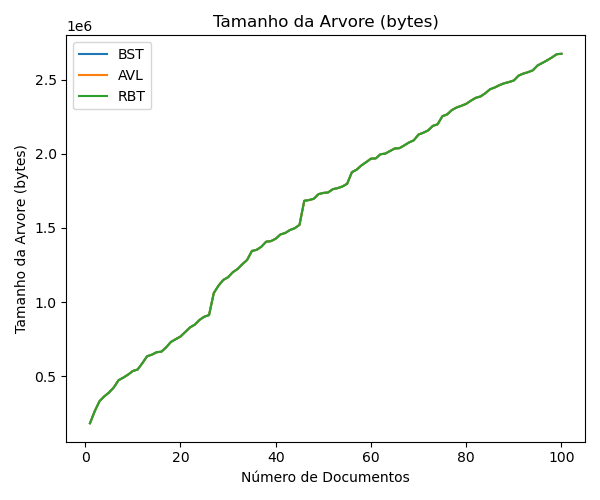
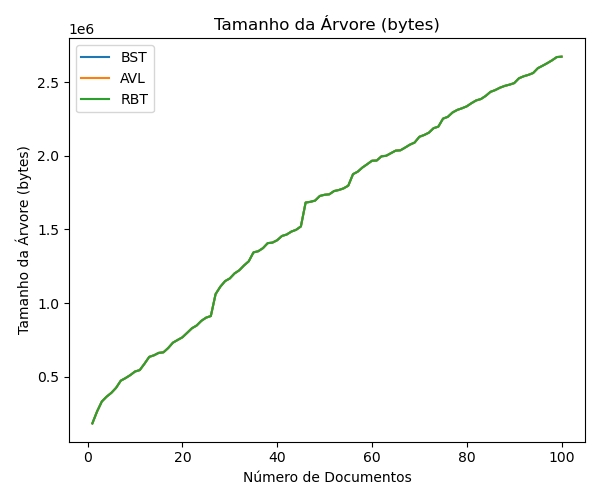
revisao relatorio e minor tweaks

diff --git a/docs/visualizations.py b/docs/visualizations.py
@@ -57,7 +57,7 @@ save_double_graph(col_names[6], col_names[7], pre="Número", mid="Máximo",
 save_simple_graph(col_names[8], title="Altura da Árvore")
 save_branch_graph(col_names[9], col_names[10], "Comparação maior e menor galho")
 save_simple_graph(col_names[11], title="Número de Nós")
-save_simple_graph(col_names[12], title="Tamanho da Arvore (bytes)")
+save_simple_graph(col_names[12], title="Tamanho da Árvore (bytes)")
 
 
 #Tamanho da arvore pelo numero de nós BST

diff --git a/docs/relatorio.md b/docs/relatorio.md
@@ -57,13 +57,26 @@ Implementação da árvores (`bst.cpp`, `avl.cpp`, `rbt.cpp`): Para a implementa
 
 Implementação dos testes (`test_bst.cpp`, `test_avl.cpp`, `test_rbt.cpp`): Para implementação dos testes, foram verificadas a consistência das regras de cada árvore, as funções de inserção e de busca.
 
-Geração e coleta de estatísticas (`tree_utils.cpp`, `tree_stats.cpp`, `export_stats.cpp`): Para coleta das métricas, no arquivo `tree_utils.cpp`, foram implementadas funções que geram as estatísticas referentes às árvores. Estas métricas são utilizadas no CLI de estatísticas e na criação de um arquivo CSV com os dados obtidos.
+Geração e coleta de estatísticas (`tree_utils.cpp`, `tree_stats.cpp`, `export_stats.cpp`): Para coleta das métricas, no arquivo `tree_utils.cpp`, foram implementadas funções que geram as estatísticas referentes às árvores. Estas métricas são utilizadas no CLI de estatísticas e na criação de um arquivo CSV com os dados obtidos. É Importante destacar que o arquivo CSV é somente gerado pelo `tree_stats.cpp`, enquanto a CLI de estatísticas gera apenas um overview simplificado.  
 
-Arquivos principais (`main_bst.cpp`, `main_avl.cpp`, `main_rbt.cpp`): Para utilização do código por outros usuários, no arquivo main de cada árvore, foram desenvolvidos comandos CLI para busca de uma determinada palavra, geração de estatísticas e visualização da árvore.
+Arquivos principais (`main_bst.cpp`, `main_avl.cpp`, `main_rbt.cpp`): Para utilização do código por outros usuários, no arquivo main de cada árvore, foram desenvolvidos comandos CLI para busca de uma determinada palavra, geração de estatísticas e visualização da árvore. Como mencionado no parágrafo anterior, as estatísticas geradas por esses arquivos são mais apenas impressas no terminal, para gerar o arquivo CSV, usamos `tree_stats.cpp`, que será melhor explicado no próximo tópico.
 
 ### 2.3 Estatísticas
 
-Assim como supracitado, o documento `tree_utils.cpp` contém funções que coletam as estatísticas com base em parâmetros, como o tipo da árvore e a quantidade de documentos que serão inseridos. A partir dessas funções, são coletadas estatísticas como: o número total de documentos inseridos na estrutura (`n_docs`); o número médio (`numComparisonsInsertionMean`) e total (`numComparisonsInsertion`) de comparações realizadas durante as operações de inserção; o tempo médio (`executionTimeInsertionMean`) e total (`executionTimeInsertion`) de execução das inserções, medidos em milissegundos; o número médio (`numComparisonsSearchMean`) e o máximo (`numComparisonsSearchMax`) de comparações realizadas durante as buscas; o tempo máximo (`executionTimeSearchMax`) e médio (`executionTimeSearchMean`) de execução das buscas; a altura final da árvore (`treeHeight`) após todas as inserções; o comprimento do menor galho (`minBranch`); o número total de nós existentes na árvore (`numNodes`); além do tamanho total ocupado pela árvore em memória, representado em bytes (`size`).
+Assim como supracitado, o documento `tree_utils.cpp` contém funções que coletam as estatísticas com base em parâmetros, como o tipo da árvore e a quantidade de documentos que serão inseridos. A partir dessas funções, são coletadas estatísticas como:
+- **Número total de documentos inseridos** (`n_docs`)
+- **Número médio de comparações na inserção** (`numComparisonsInsertionMean`)
+- **Número total de comparações na inserção** (`numComparisonsInsertion`)
+- **Tempo médio de execução das inserções (ms)** (`executionTimeInsertionMean`)
+- **Tempo total de execução das inserções (ms)** (`executionTimeInsertion`)
+- **Número médio de comparações na busca** (`numComparisonsSearchMean`)
+- **Número máximo de comparações na busca** (`numComparisonsSearchMax`)
+- **Tempo máximo de execução das buscas (ms)** (`executionTimeSearchMax`)
+- **Tempo médio de execução das buscas (ms)** (`executionTimeSearchMean`)
+- **Altura final da árvore após as inserções** (`treeHeight`)
+- **Comprimento do menor galho** (`minBranch`)
+- **Número total de nós na árvore** (`numNodes`)
+- **Tamanho total ocupado pela árvore em memória (bytes)** (`size`)
 
 Vale ressaltar que, neste contexto, são considerados como número de comparações a quantidade de nós que foram percorridos durante a operação, ou seja, é contabilizado cada comparação com um nó durante a inserção ou busca. Além disso, a fim de reduzir erros de medições de tempo nas estáticas de tempo de busca, para as árvores que tem 800 documentos ou menos, a busca por cada palavra é realizada 50 vezes, e então é calculado a médias desses resultados, mitigando assim, as oscilações causas pelo computador nos tempos calculados.
 
@@ -90,8 +103,8 @@ No documento `tree_stats.cpp`, utilizando as funções responsáveis pela coleta
 
 #### 2.4.3. Entrega 3
 
-* **Bruno Ferreira Salvi:** Elaboração e revisão do relatório final, formulação das estatísticas extras e revisão geral do código e documentação;
-* **Henrique Coelho Beltrão:**  Elaboração e revisão do relatório final, revisão geral do código, documentação, instruções de execução com novos dados e ajustes no Makefile;
+* **Bruno Ferreira Salvi:** Revisão do relatório final, formulação das estatísticas extras e revisão geral do código e documentação;
+* **Henrique Coelho Beltrão:** Revisão do relatório final, verificações e visualização de progresso das etapas, ajustes no Makefile para descompactar dados e reformatação do código;
 * **Henrique Gabriel Gasparelo:** Implementação dos testes unitários da RBT e redação do relatório;
 * **José Thevez Gomes Guedes:** Implementação das funções da RBT e redação do relatório;
 * **Luiz Eduardo Bravin:** Implementação da CLI para RBT, atualização das funções úteis para comportar NIL e redação do relatório.
@@ -117,52 +130,56 @@ A seguir, serão analisados graficamente os resultados obtidos, comparando o des
 #### 3.2.1. Tempo de Inserção
 ##### **Figura 1: Tempo de Inserção de Palavra**
 ![Figura 1](graphs/grafico_ExecutionTimeInsertion.png)
-##### **Discussão:** Analisando o tempo total de inserção, nota-se que a RBT apresentou o melhor desempenho, sendo consistentemente mais rápida que as outras duas. A árvore AVL, embora mantenha um tempo de inserção estável, foi ligeiramente mais lenta que a RBT, provavelmente devido ao maior número de rotações necessárias para manter seu balanceamento estrito. A BST, por sua vez, apresentou tempos médios voláteis e um tempo total que, embora próximo ao da AVL, reflete sua ineficiência estrutural.
+##### **Discussão:** A análise do tempo total de inserção revela que a RBT apresentou o melhor desempenho, sendo consistentemente mais rápida que as outras duas estruturas. Esse resultado pode ser atribuído ao menor número de rotações necessárias para manter o balanceamento, em comparação à AVL. Apesar disso, a AVL manteve um tempo de inserção estável, embora ligeiramente mais lento, devido ao rigor de suas regras de balanceamento. Por outro lado, a BST apresentou tempos médios voláteis e um tempo total próximo ao da AVL, mas sua falta de balanceamento estrutural resultou em maior variabilidade e ineficiência.
+
 
 #### 3.2.2. Tempo de Busca
 ##### **Figura 2: Tempo de Busca de Palavra**
 ![Figura 2](graphs/grafico_ExecutionTimeSearch.png)
-##### **Discussão:** As árvores auto-balanceadas, AVL e RBT, reduziram consideravelmente o tempo de busca em relação à BST. A AVL apresentou o tempo médio de busca mais baixo e estável, confirmando que seu balanceamento rigoroso é vantajoso para consultas. A RBT teve um desempenho muito próximo ao da AVL, sendo também uma excelente opção para buscas. A BST foi a mais lenta, com picos de tempo de busca que evidenciam os problemas causados por seu desbalanceamento.
+##### **Discussão:** As árvores auto-balanceadas, AVL e RBT, reduziram significativamente o tempo de busca em relação à BST. A AVL destacou-se com o menor tempo médio de busca, evidenciando que seu balanceamento rigoroso é vantajoso para consultas. A RBT apresentou desempenho muito próximo ao da AVL, sendo também uma excelente opção para buscas. A BST, por sua vez, foi a mais lenta, com picos de tempo de busca que refletem os problemas causados por seu desbalanceamento.
 
 #### 3.2.3. Número de Comparações
 ##### **Figura 3: Número de Comparações por Inserção de Palavra**
 ![Figura 3](graphs/grafico_NumComparisonsInsertion.png)
 ##### **Figura 4: Número de Comparações por Busca de Palavra**
 ![Figura 4](graphs/grafico_NumComparisonsSearch.png)
-##### **Discussão:** Tanto na inserção quanto na busca, as árvores AVL e RBT realizaram um número de comparações significativamente menor que a BST. Para inserções, a RBT exigiu o menor número total de comparações, seguida de perto pela AVL, o que corrobora seus tempos de inserção mais baixos. Para buscas, a AVL se mostrou marginalmente mais eficiente, realizando, em média e no pior caso, o menor número de comparações, com a RBT apresentando resultados quase idênticos.
+##### **Discussão:** Tanto na inserção quanto na busca, as árvores AVL e RBT realizaram um número de comparações significativamente menor que a BST. Para inserções, a RBT exigiu o menor número total de comparações, seguida de perto pela AVL, o que corrobora seus tempos de inserção mais baixos. Para buscas, a AVL foi marginalmente mais eficiente, realizando, em média e no pior caso, o menor número de comparações, enquanto a RBT apresentou resultados quase idênticos. A BST, por sua vez, teve o maior número de comparações, refletindo sua tendência ao desbalanceamento.
 
 #### 3.2.4. Altura da Árvore
 ##### **Figura 5: Altura da Árvore**
 ![Figura 5](graphs/grafico_TreeHeight.png)
-##### **Discussão:** Nota-se primeiramente que existem uma grande diferença de altura entre a BST e a AVL, ou RBT, isso se dá por conta do desbalaceamento da BST que permite, em certos casos, uma altura proporcional a $n$ ao invés do $log(n)$ desejado, ao contrário da AVL e RBT, que mesmo no pior caso possuem altura proporcional a $log(n)$. Isso mostra um comportamento similar ao esperado, por conta das proporções explicadas e pela altura da RBT ser ligeiramente maior que a da AVL, uma vez que possui uma menor rigidez no balaceamento, mesmo a altura da AVL sendo semelhante a da RBT em todo o experimento. Além disso, é visível que a altura de todas as árvores não cresce muito a medida que se aumenta o número de documentos, que pode ser explicado por dois fatores: existirem muitas palavras comuns a muitos documentos, que não aumenta o número de nós já que não são palavras distintas, e o fato de que é necessário, no caso geral, inserir muitos nós para aumentar a altura de uma árvore grande, já que para isso, é necessário que o novo nó seja filho de um nó de altura máxima, no caso da BST, ou que o balaceamento esteja no limite, no caso da AVL e RBT.
+##### **Discussão:** Observa-se uma diferença significativa de altura entre a BST e as árvores balanceadas (AVL e RBT). Essa disparidade ocorre porque a BST, por não possuir mecanismos de balanceamento, pode atingir alturas próximas a $n$ em casos desfavoráveis, enquanto AVL e RBT mantêm a altura próxima de $log(n)$ mesmo no pior cenário. Esse comportamento está de acordo com a teoria, já que a RBT, por adotar regras de balanceamento menos rígidas que a AVL, apresenta uma altura levemente superior, embora ambas permaneçam próximas ao ideal. Além disso, nota-se que a altura das árvores cresce lentamente à medida que aumenta o número de documentos. Isso pode ser atribuído a dois fatores principais: a presença de muitas palavras comuns entre os documentos, que não geram novos nós, e o fato de que, para aumentar a altura de árvores grandes, é necessário inserir novos nós em posições específicas (filhos de nós de altura máxima), o que se torna cada vez mais raro tanto na BST quanto nas árvores balanceadas.
 
 #### 3.2.5. Tamanho dos Galhos (Menor e Maior Caminho)
 ##### **Figura 6: Tamanho do Maior e Menor Galho**
 ![Figura 6](graphs/grafico_branchs.png)
-##### **Discussão:** Nota-se que a distância entre o maior e menor galho da AVL e da RBT é bem curta, enquanto na BST essa distância é exageradamente longa. Isso ocorre devido à natureza da AVL e da RBT, que são projetadas para evitar degenerações e manter a árvore balanceada, com isso balanceia-se também o tamanho dos galhos. Em contrapartida, alguns galhos da BST podem degenerar e se tornar longos demais. Outro ponto relevante é que a diferença entre o maior e o menor galho na RBT foi mais acentuada do que na AVL. Onde, o menor galho da RBT foi mais curto que o da AVL, enquanto o maior foi mais longo, o que reflete o balanceamento menos rígido da RBT em relação ao da AVL.
+##### **Discussão:** A diferença entre o maior (acima) e menor (abaixo) galho foi muito mais acentuada na BST, evidenciando sua falta de balanceamento. Em contraste, a AVL e a RBT mantiveram uma distância curta entre os galhos, refletindo suas propriedades de balanceamento. A RBT apresentou uma diferença ligeiramente maior que a AVL, devido ao seu balanceamento mais flexível, mas ainda dentro de limites aceitáveis.
 
 #### 3.2.6. Números de nós
 ##### **Figura 7: Número de nós**
 ![Figura 7](graphs/grafico_NumNodes.png)
-##### **Discussão:** Nota-se que o número de nós nas três árvores é o mesmo, uma vez que o que muda em cada implementação é a forma de inserção do nó, mas nenhum nó deixa de ser inserido ou é inserido mais de uma vez. Além disso, pode-se observar um crescimento natural do número de nós, uma vez que se aumenta o número de documentos, e, consequentemente, aumentasse o número de palavras e potenciais nós. Entretanto, mesmo com esse crescimento, é possível observar leves estagnações a medida que aumenta-se o número de documentos, que provavelmente ocorre devido a existência de muitas palavras repetidas em mais de um documento que não criam novos nós, podendo existir documentos com uma série de palavras repetidas.
+##### **Discussão:** Observa-se que o número de nós é idêntico nas três estruturas, pois a diferença entre elas está apenas na forma de organização e balanceamento, não na quantidade de elementos inseridos. Cada palavra única resulta em um nó, independentemente da árvore utilizada. Inicialmente, o número de nós cresce rapidamente à medida que novas palavras são encontradas. No entanto, à medida que mais documentos são processados, a frequência de palavras repetidas aumenta, fazendo com que a inserção de novos nós se torne menos comum. Isso faz com que o crescimento do número total de nós tenda a ser logarítmico em relação ao número de documentos processados, já que a maioria das novas inserções corresponde a palavras já existentes. Assim, mesmo com o aumento do corpus, a presença de palavras repetidas limita o crescimento do número total de nós.
 
 #### 3.2.7. Tamanho da árvore
 ##### **Figura 8: Tamanho da árvore**
 ![Figura 8](graphs/grafico_TreeSizeBytes.png)
-##### **Discussão:** Comparando este gráfico com a Figura 7, é possível perceber uma possível correlação entre número de nós e o tamanho da árvore, o que pode ser explicado uma vez que o tamanho da árvore depende unicamente do tamanho de cada nó, que bem similar, uma vez que possuem a mesma estrutura. Deste modo, a medida que se aumenta o número de nós, aumenta-se o tamanho da árvore, da mesma maneira.
+##### **Discussão:** O tamanho da árvore apresentou uma correlação direta com o número de nós, já que o tamanho de cada nó é semelhante entre as estruturas. Isso confirma que o aumento no número de nós resulta em um aumento proporcional no tamanho da árvore.
+
 
 #### 3.2.8. Altura da árvore vs Número de nós
 ##### **Figura 9: Altura da Árvore vs. Número de nós BST**
 ![Figura 9](graphs/grafico_height_node_bst.png)
-##### **Discussão:** Nesse gráfico verifica-se que o número de nós computados está dentro do aceitável, entre o máximo e mínimo teórico da BST. O mínimo número de nós se dá quando a BST degenera, isto é, há um nó por camada, logo $n \geq h + 1$. O número máximo de nós se dá quando a BST está completa, isto é, há $2^{m}$ nós na camada de altura $m$, logo $n \leq 2^{h+1} -1$.
+##### **Discussão:** A BST apresentou resultados dentro dos limites teóricos, com o número de nós variando entre o mínimo ($n \geq h + 1$) e o máximo ($n \leq 2^{h+1} -1$). No entanto, sua tendência ao desbalanceamento foi evidente, com muitos casos próximos ao limite mínimo.
+
 
 ##### **Figura 10: Altura da Árvore vs. Número de nós AVL**
 ![Figura 10](graphs/grafico_height_node_avl.png)
-##### **Discussão:** Nesse gráfico verifica-se que o número de nós computados está dentro do aceitável, entre o máximo e mínimo teórico da AVL. O mínimo número de nós se dá quando se cumpre minimamente as restrições de balanceamento da AVL, logo $n \geq 2^{\frac{h}{1.44}}$. O número máximo de nós se dá quando a AVL está completa, isto é, há $2^{m}$ nós na camada de altura $m$, logo $n \leq 2^{h+1} -1$.
+##### **Discussão:** A AVL manteve o número de nós dentro dos limites teóricos, com o mínimo ($n \geq 2^{\frac{h}{1.44}}$) e o máximo ($n \leq 2^{h+1} -1$). Isso demonstra a eficácia de suas regras de balanceamento em manter a estrutura otimizada.
 
 ##### **Figura 11: Altura da Árvore vs. Número de nós AVL**
 ![Figura 11](graphs/grafico_height_node_rbt.png)
-##### **Discussão:** Nesse gráfico verifica-se que o número de nós computados está dentro do aceitável, entre o máximo e mínimo teórico da RBT. O mínimo número de nós se dá quando se cumpre minimamente as restrições de balanceamento da RBT, logo $n \geq 2^{\frac{h}{2}} -1$. O número máximo de nós se dá quando a RBT está completa, isto é, há $2^{m}$ nós na camada de altura $m$, logo $n \leq 2^{h+1} -1$.
+##### **Discussão:** A RBT também apresentou resultados dentro dos limites teóricos, com o mínimo ($n \geq 2^{\frac{h}{2}} -1$) e o máximo ($n \leq 2^{h+1} -1$). Sua altura foi ligeiramente maior que a da AVL, refletindo seu balanceamento menos rígido, mas ainda eficiente.
+
 
 ### 3.3. Resultados
 
